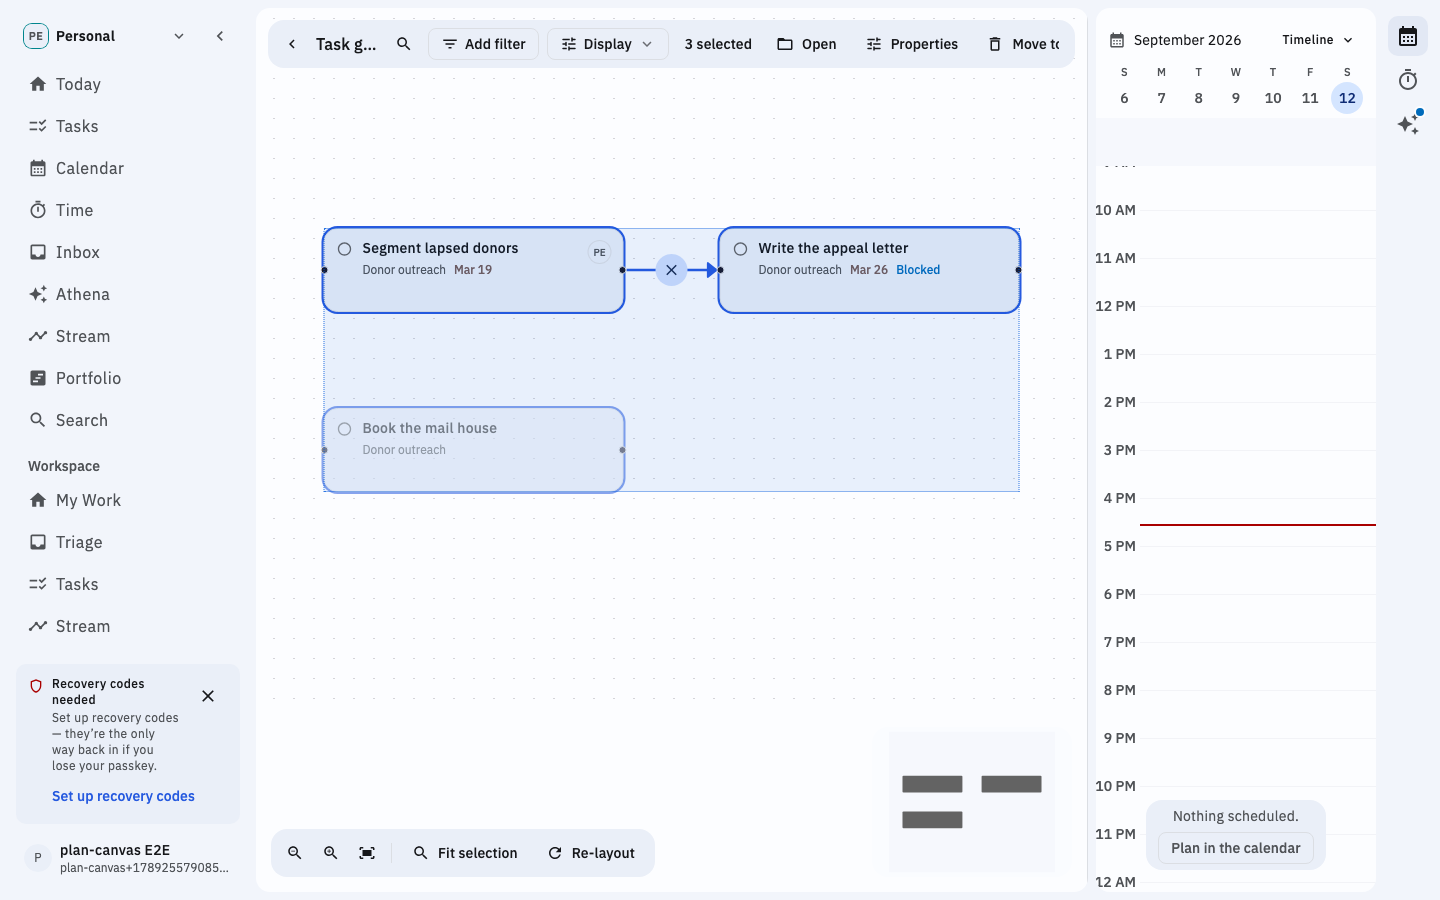
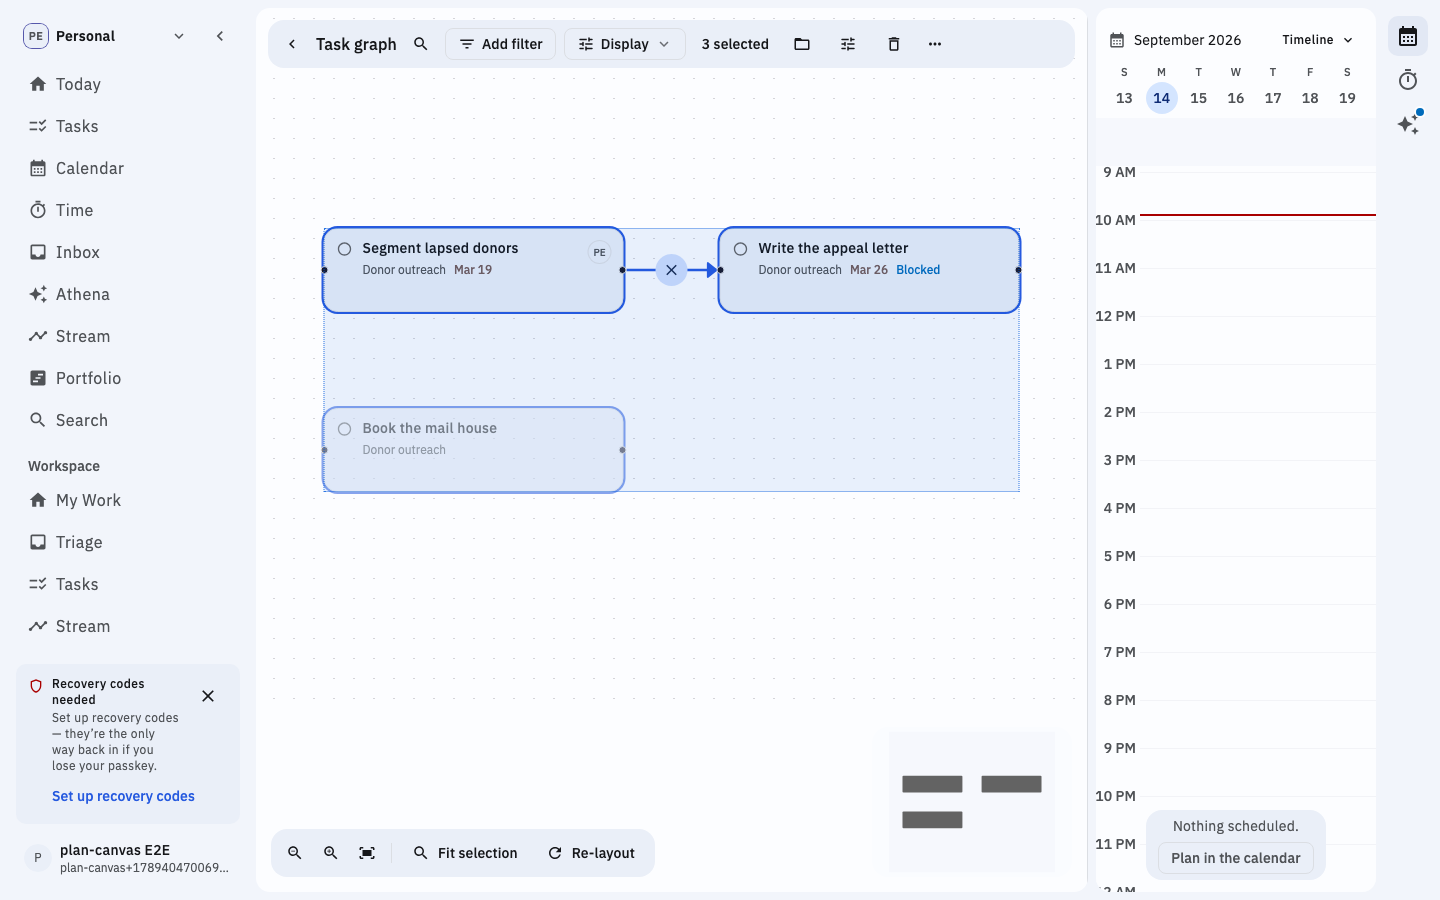
fix(web): Keep a selection's actions inside the bar's corners
A wide selection could run its actions past the floating bar's rounded
end, cutting "Move to trash" mid-word under the corner. The floating bar
is now a container, so a selection's actions collapse their labels to
icons against the bar's own width, with the label kept as the button's
name and tooltip. When a group still overflows, it fades at its end and
scrolls instead of cutting.

Docs-impact: Not needed - the bar's layout rule is documented on AppBar and the floating bar

diff --git a/apps/web/src/components/canvas/bulk-actions-bar.tsx b/apps/web/src/components/canvas/bulk-actions-bar.tsx
@@ -10,7 +10,15 @@
  * the canvas, with the dialog beside it. A host with a floating bar puts the actions in that
  * bar's selection slot and renders the dialog alone.
  */
-import { Ellipsis, Folder, RefreshCw, Trash2, TuneRounded, Undo } from '@docket/ui/icons';
+import {
+  CheckCircle2,
+  Ellipsis,
+  Folder,
+  RefreshCw,
+  Trash2,
+  TuneRounded,
+  Undo,
+} from '@docket/ui/icons';
 import {
   Button,
   Dialog,
@@ -57,31 +65,42 @@ export function BulkSelectionActions({ commands }: BulkSelectionProps): React.JS
   return (
     <>
       <span className="text-label-large shrink-0 px-2 whitespace-nowrap">{count} selected</span>
-      <Button type="button" size="sm" variant="ghost" onClick={commands.openSelection}>
-        <Folder className="size-4" /> Open
+      <Button
+        type="button"
+        size="sm"
+        variant="ghost"
+        aria-label="Open"
+        title="Open"
+        onClick={commands.openSelection}
+      >
+        <Folder className="size-4" /> <span className="hidden @4xl:inline">Open</span>
       </Button>
       <Button
         type="button"
         size="sm"
         variant="ghost"
         disabled={!commands.canEdit}
+        aria-label="Properties"
+        title="Properties"
         onClick={(event) => {
           commands.openProperties(event.currentTarget);
         }}
       >
-        <TuneRounded className="size-4" /> Properties
+        <TuneRounded className="size-4" /> <span className="hidden @4xl:inline">Properties</span>
       </Button>
       {commands.objectKind === 'task' && commands.canEdit && taskActions !== null && count === 1 ? (
         <Button
           type="button"
           size="sm"
           variant="ghost"
+          aria-label="Mark done"
+          title="Mark done"
           onClick={() => {
             const task = commands.selectedObjects[0];
             if (task !== undefined) taskActions.setComplete(task.id, true);
           }}
         >
-          Mark done
+          <CheckCircle2 className="size-4" /> <span className="hidden @4xl:inline">Mark done</span>
         </Button>
       ) : null}
       <Button
@@ -89,9 +108,11 @@ export function BulkSelectionActions({ commands }: BulkSelectionProps): React.JS
         size="sm"
         variant="ghost"
         disabled={!commands.canTrash || commands.pending}
+        aria-label="Move to trash"
+        title="Move to trash"
         onClick={commands.trashSelection}
       >
-        <Trash2 className="size-4" /> Move to trash
+        <Trash2 className="size-4" /> <span className="hidden @4xl:inline">Move to trash</span>
       </Button>
       <DropdownMenu>
         <DropdownMenuTrigger asChild>

diff --git a/apps/web/src/components/canvas/canvas-floating-bar.tsx b/apps/web/src/components/canvas/canvas-floating-bar.tsx
@@ -13,9 +13,33 @@
  * its height so the canvas can keep its frame below it.
  */
 import { AppBar } from '@docket/ui/components';
-import { type JSX, type ReactNode, useEffect, useRef } from 'react';
+import { cn } from '@docket/ui/lib/utils';
+import { type JSX, type ReactNode, useEffect, useRef, useState } from 'react';
 
 import { CANVAS_OVERLAY_GUTTER } from './canvas-viewport-insets';
+
+/**
+ * Whether a scrolling group's content runs past its box; while it does, the group fades at its
+ * end so a cut-off label reads as "more this way" rather than as a mistake.
+ */
+function useOverflowing(): [boolean, (node: HTMLDivElement | null) => void] {
+  const [overflowing, setOverflowing] = useState(false);
+  const [node, setNode] = useState<HTMLDivElement | null>(null);
+  useEffect(() => {
+    if (!node) return undefined;
+    const measure = (): void => {
+      setOverflowing(node.scrollWidth > node.clientWidth + 1);
+    };
+    measure();
+    if (typeof ResizeObserver === 'undefined') return undefined;
+    const observer = new ResizeObserver(measure);
+    observer.observe(node);
+    return () => {
+      observer.disconnect();
+    };
+  }, [node]);
+  return [overflowing, setNode];
+}
 
 /** Props for {@link CanvasFloatingBar}. */
 export interface CanvasFloatingBarProps {
@@ -67,13 +91,19 @@ export default function CanvasFloatingBar({
     };
   }, [onHeightChange]);
 
+  const [overflowing, attachGroup] = useOverflowing();
   const selectionGroup =
     selection === null ? null : (
       <div
+        ref={attachGroup}
         role="group"
         aria-label="Selection"
         data-testid="canvas-selection-bar"
-        className="flex min-w-0 flex-nowrap items-center gap-1 overflow-x-auto"
+        data-overflowing={overflowing || undefined}
+        className={cn(
+          'flex min-w-0 flex-nowrap items-center gap-1 overflow-x-auto',
+          overflowing && '[mask-image:linear-gradient(to_right,black_calc(100%-2rem),transparent)]',
+        )}
       >
         {selection}
       </div>

diff --git a/packages/ui/src/components/shell/AppBar.tsx b/packages/ui/src/components/shell/AppBar.tsx
@@ -21,7 +21,8 @@
  * by the caller over the surface. In that row the title is what gives way: it takes the room the
  * fixed slots leave, up to its own length, and truncates before anything else moves. `controls`
  * and `actions` never shrink. The `fill` slot is the one flexible region, for a group that
- * scrolls inside its own box when the row runs short.
+ * scrolls inside its own box when the row runs short. The bar is a container, so a slot can
+ * collapse its own labels against the bar's width rather than the window's.
  *
  * ## The navigation slot is an icon, not a sentence
  *
@@ -118,7 +119,7 @@ export function AppBar({
         tone="floating"
         shape="large"
         aria-label={ariaLabel}
-        className={cn('flex min-w-0 flex-nowrap items-center gap-2 p-2', className)}
+        className={cn('@container flex min-w-0 flex-nowrap items-center gap-2 p-2', className)}
       >
         {navigation}
         {typeof title === 'string' ? (

diff --git a/apps/web/src/components/plan-canvas/plan-bar.tsx b/apps/web/src/components/plan-canvas/plan-bar.tsx
@@ -91,11 +91,13 @@ export function PlanSelectionActions({
         type="button"
         size="sm"
         variant="ghost"
+        aria-label="Ask Athena"
+        title="Ask Athena"
         onClick={() => {
           onAsk(refs);
         }}
       >
-        <Sparkles className="size-4" /> Ask Athena
+        <Sparkles className="size-4" /> <span className="hidden @3xl:inline">Ask Athena</span>
       </Button>
       {canEdit && drafts.length > 0 ? (
         <Button
